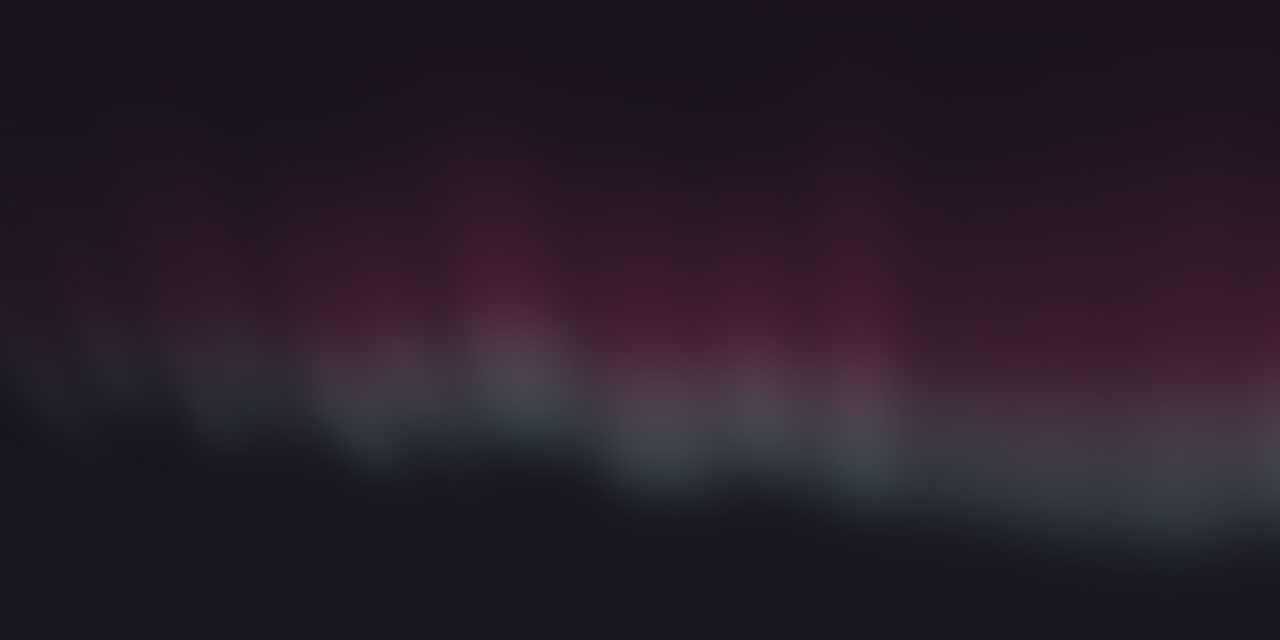
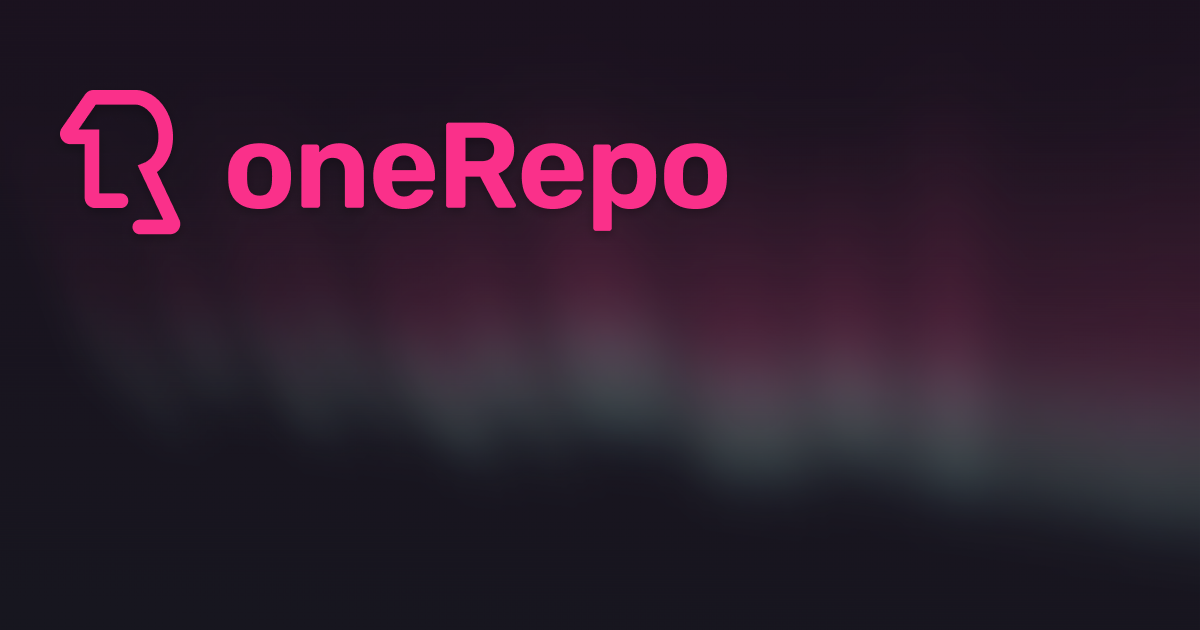
docs: update og image

Changed region(s): [[0.185, 0.181, 0.6167, 0.3619], [0.0308, 0.1206, 0.1542, 0.3921], [0.4625, 0.6635, 0.555, 0.754]]

diff --git a/docs/src/pages/open-graph/[...route].ts b/docs/src/pages/open-graph/[...route].ts
@@ -11,11 +11,13 @@ export const { getStaticPaths, GET } = OGImageRoute({
 		title: page.title,
 		description: page.description,
 		logo: {
+			// This is actually transparent
+			// The logo is embedded in the BG image to control positioning
 			path: './src/assets/og-logo.png',
 		},
 		bgImage: {
 			path: './src/assets/og-background.png',
-			fit: 'cover',
+			fit: 'none',
 		},
 		font: {
 			title: {
